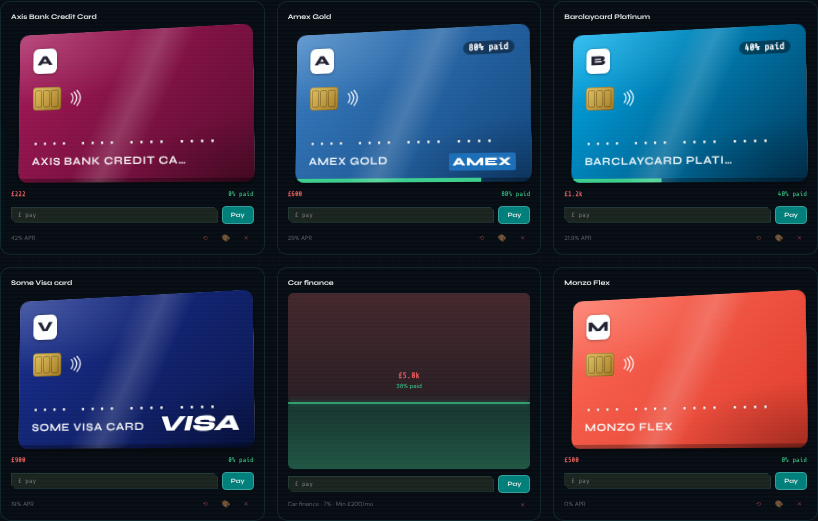
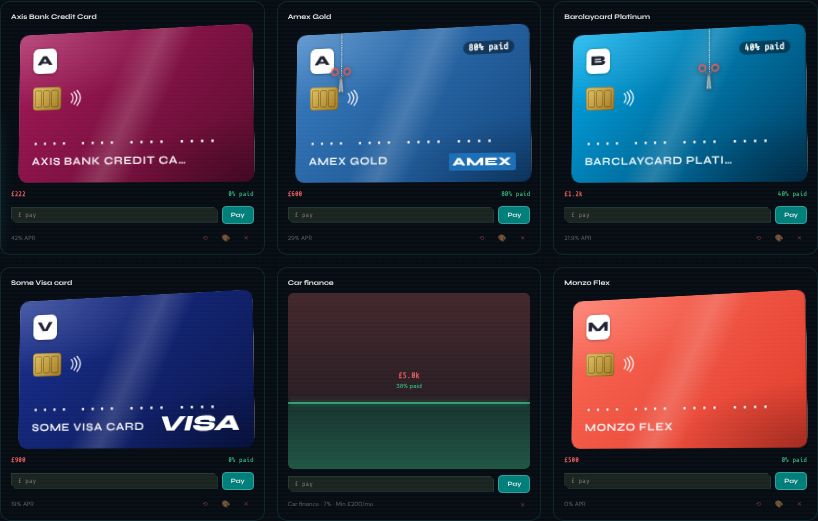
Debt cards: cut along the x axis by % paid (slow scissor animation, paid part greys and parts), payment history with undo
Claude-Session: https://claude.ai/code/session_01BbEpszbFs3K1a6WMvdXZsu

diff --git a/index.html b/index.html
@@ -749,6 +749,22 @@ body::before {
 .cc3-bk-info span{display:block;font-size:3cqw;opacity:.6;text-transform:uppercase;letter-spacing:.1em}
 .cc3-bk-info b{font-size:4.6cqw;font-weight:500}
 .cc3-back .cc3-net{bottom:8%}
+
+/* the card is cut along its x axis as it is paid off */
+.cc3-front{background:none!important;overflow:visible;box-shadow:none;border-radius:0}
+.cc3-lay{position:absolute;inset:0;border-radius:3.7cqw;overflow:hidden;box-shadow:0 1cqw 3cqw rgba(0,0,0,.45)}
+.cc3-piece{filter:grayscale(1) brightness(.6) contrast(.9);transform:translate(.8cqw,.5cqw) rotate(1.1deg);transform-origin:100% 100%;box-shadow:none}
+.cc3-cutline{position:absolute;top:0;bottom:0;width:0;border-left:.5cqw dashed rgba(255,255,255,.85);transform-origin:top;filter:drop-shadow(0 0 .6cqw rgba(0,0,0,.6));pointer-events:none;z-index:3}
+.cc3-scis{position:absolute;top:0;width:9cqw;height:12cqw;margin-left:-4.5cqw;opacity:0;pointer-events:none;z-index:4;filter:drop-shadow(0 .8cqw 1cqw rgba(0,0,0,.5))}
+.cc3-scis svg{width:100%;height:100%;overflow:visible}
+.cc3-bl{transform-origin:0 0}
+.cc3-scis.snip .cc3-bl.a{animation:ccSnipA .5s ease-in-out infinite}
+.cc3-scis.snip .cc3-bl.b{animation:ccSnipB .5s ease-in-out infinite}
+@keyframes ccSnipA{0%,100%{transform:rotate(0)}50%{transform:rotate(-13deg)}}
+@keyframes ccSnipB{0%,100%{transform:rotate(0)}50%{transform:rotate(13deg)}}
+.cc3-bk-cut{position:absolute;top:0;right:0;bottom:0;background:rgba(150,150,150,.55);mix-blend-mode:saturation;border-left:.4cqw dashed rgba(255,255,255,.5);pointer-events:none}
+.cc3-pct{z-index:5}
+.cc3-gloss{z-index:2}
 .cc-tile-actions{display:flex;gap:4px}
 .debt-card-grid.has-cards{grid-template-columns:repeat(auto-fill,minmax(min(100%,230px),1fr))}
 
@@ -8690,6 +8706,8 @@ var _authForgot=false,_needPin=null,_pinMode='local',_pinEnterLen=4,_pinBusy=fal
 var AL_KEY='pos_al1';
 var alState={metals:{gold:0,silver:0,platinum:0,palladium:0},metalPrices:{gold:1950,silver:23.5,platinum:1020,palladium:1100},crypto:[{id:1,sym:'BTC',amount:0,price:42000},{id:2,sym:'ETH',amount:0,price:2200}],cashAccounts:[],otherAssets:[],liabilities:[]};
 var DEBT_KEY='pos_debt1';
+var _ccPct={};   // % shown last time for each card, so a payment cuts from where it was and an undo joins it back up
+var _ccIO=null;
 var CC_BRANDS=[
  {n:'American Express',d:'americanexpress.com',g:['#3b7fc4','#12467f'],fg:'#fff',net:'amex',re:/amex|american\s*express/i},
  {n:'Barclaycard',d:'barclaycard.co.uk',g:['#00aeef','#00395d'],fg:'#fff',re:/barclay/i},
@@ -12243,28 +12261,35 @@ function ccNetMark(n){
   return '';
 }
 function ccEsc(t){return viClean(String(t==null?'':t));}
-function cc3dHTML(d,pctNum){
+function cc3dHTML(d,pctNum,shown){
+  if(shown==null)shown=pctNum;
   var b=ccBrand(d)||CC_GENERIC,c=d.card||{},net=ccNetwork(d,b),fg=b.fg;
-  var front=c.art?'background:#000 url('+c.art+') center/cover':'background:linear-gradient(135deg,'+b.g[0]+','+b.g[1]+')';
+  var bg=c.art?'background:#000 url('+c.art+') center/cover':'background:linear-gradient(135deg,'+b.g[0]+','+b.g[1]+')';
   var domain=b.d,logo=c.logo?'<img alt="" src="'+c.logo+'">':(domain?'<img alt="" loading="lazy" referrerpolicy="no-referrer" src="https://www.google.com/s2/favicons?domain='+domain+'&sz=64" onerror="this.style.display=\'none\'">':'');
   var mono=ccEsc((b.n||d.name||'?').trim().charAt(0).toUpperCase());
   var last4=/^\d{4}$/.test(c.last4||'')?c.last4:'••••';
-  var shown=ccEsc(d.name);
+  var shownName=ccEsc(d.name);
   var bal=gbpFmt(d.balance),apr=(+d.rate||0)+'% APR',minp=gbpFmt(parseFloat(d.minPay)||parseFloat(d.min)||0);
   var art=!!c.art;
-  var f='<div class="cc3-face cc3-front" style="'+front+';color:'+fg+'">'
-    +(art?'':'<div class="cc3-sheen"></div>'+(b.acc?'<div class="cc3-acc" style="background:'+b.acc+'"></div>':''))
+  var inner=(art?'':'<div class="cc3-sheen"></div>'+(b.acc?'<div class="cc3-acc" style="background:'+b.acc+'"></div>':''))
     +(art?'':'<div class="cc3-logo"><span>'+mono+'</span>'+logo+'</div>')
     +(art?'':'<div class="cc3-chip"><i></i><i></i><i></i></div><svg class="cc3-nfc" viewBox="0 0 24 24" fill="none" stroke="'+fg+'" stroke-width="2" stroke-linecap="round"><path d="M8 6c3 3.5 3 8.500 0 12M12 4c4.500 5 4.500 11 0 16M16 2c6 6.500 6 13.500 0 20"/></svg>')
-    +(art?'':'<div class="cc3-num">•••• •••• •••• '+last4+'</div><div class="cc3-name">'+shown+'</div>'+ccNetMark(net))
-    +'<div class="cc3-paid"><span style="width:'+pctNum+'%"></span></div>'
+    +(art?'':'<div class="cc3-num">•••• •••• •••• '+last4+'</div><div class="cc3-name">'+shownName+'</div>'+ccNetMark(net));
+  // the card is cut along its x axis: the paid share on the right is cut off and greyed, the unpaid share on the left stays full colour
+  var P=Math.max(0,Math.min(100,shown));
+  var f='<div class="cc3-face cc3-front">'
+    +'<div class="cc3-lay cc3-base" style="'+bg+';color:'+fg+';clip-path:inset(0 '+P+'% 0 0)">'+inner+'</div>'
+    +'<div class="cc3-lay cc3-piece" style="'+bg+';color:'+fg+';clip-path:inset(0 0 0 '+(100-P)+'%)">'+inner+'</div>'
+    +(P>0&&P<100?'<div class="cc3-cutline cc3-cl-old" style="left:'+(100-P)+'%"></div>':'')
+    +'<div class="cc3-cutline cc3-cl-new" style="left:'+(100-P)+'%;'+(P>0&&P<100?'display:none':'display:none')+'"></div>'
+    +'<div class="cc3-scis" aria-hidden="true"><svg viewBox="-12 -14 24 32"><g class="cc3-bl a"><path d="M0 0 L-2.600 15 L-.8 15.500 L1.200 0Z" fill="#dfe6ea" stroke="#6b7780" stroke-width=".5"/><circle cx="-5.500" cy="-9" r="3.600" fill="none" stroke="#e05c5c" stroke-width="2"/><path d="M-4 -6.500 L0 0" stroke="#6b7780" stroke-width="1.400"/></g><g class="cc3-bl b"><path d="M0 0 L2.600 15 L.8 15.500 L-1.200 0Z" fill="#dfe6ea" stroke="#6b7780" stroke-width=".5"/><circle cx="5.500" cy="-9" r="3.600" fill="none" stroke="#e05c5c" stroke-width="2"/><path d="M4 -6.500 L0 0" stroke="#6b7780" stroke-width="1.400"/></g><circle r="1.200" fill="#6b7780"/></svg></div>'
     +(pctNum>0?'<div class="cc3-pct">'+pctNum+'% paid</div>':'')
     +'<div class="cc3-gloss"></div></div>';
   var back='<div class="cc3-face cc3-back">'
     +'<div class="cc3-stripe"></div><div class="cc3-sig"><span>Authorised signature</span><b>•••</b></div>'
     +'<div class="cc3-bk-info"><div><span>Owed</span><b>'+bal+'</b></div><div><span>Rate</span><b>'+apr+'</b></div><div><span>Min</span><b>'+minp+'/mo</b></div></div>'
-    +ccNetMark(net)+'<div class="cc3-gloss"></div></div>';
-  return '<div class="cc3" data-id="'+d.id+'" role="img" aria-label="'+ccEsc(d.name)+' credit card — drag to rotate, double-click to flip">'
+    +ccNetMark(net)+(pctNum>0?'<div class="cc3-bk-cut" style="width:'+Math.min(100,pctNum)+'%"></div>':'')+'<div class="cc3-gloss"></div></div>';
+  return '<div class="cc3" data-id="'+d.id+'" data-from="'+shown+'" data-to="'+pctNum+'" role="img" aria-label="'+ccEsc(d.name)+' credit card — drag to rotate, double-click to flip">'
     +'<div class="cc3-body" style="--ry:-16deg;--rx:6deg">'+f+back
     +'<div class="cc3-edge cc3-e-t"></div><div class="cc3-edge cc3-e-b"></div><div class="cc3-edge cc3-e-l"></div><div class="cc3-edge cc3-e-r"></div></div></div>';
 }
@@ -12348,6 +12373,45 @@ function ccSaveEdit(){
   ccCloseEdit();saveDebtState();renderDebtTab();showToast('Card design saved ✓');
 }
 
+
+// ── the slow, satisfying cut: scissors travel down the cut line, then the paid part greys and parts from the card ──
+function ccReduced(){try{return window.matchMedia('(prefers-reduced-motion: reduce)').matches;}catch(e){return false;}}
+function ccWatchCuts(root){
+  (root||document).querySelectorAll('.cc3[data-from]').forEach(function(c){
+    var a=+c.getAttribute('data-from'),b=+c.getAttribute('data-to');
+    if(a===b||c._ccBusy){return;}
+    if(ccReduced()||typeof IntersectionObserver==='undefined'){ccCut(c,a,b,true);return;}
+    if(!_ccIO)_ccIO=new IntersectionObserver(function(es){es.forEach(function(e){if(e.isIntersecting){_ccIO.unobserve(e.target);var el=e.target;ccCut(el,+el.getAttribute('data-from'),+el.getAttribute('data-to'),false);}});},{threshold:.6});
+    _ccIO.observe(c);
+  });
+}
+function ccCut(c,a,b,instant){
+  if(c._ccBusy||!c.isConnected)return;
+  var id=c.getAttribute('data-id');_ccPct[id]=b;
+  var base=c.querySelector('.cc3-base'),piece=c.querySelector('.cc3-piece'),olds=c.querySelector('.cc3-cl-old'),nw=c.querySelector('.cc3-cl-new'),sc=c.querySelector('.cc3-scis');
+  if(!base||!piece)return;
+  var fin=function(){base.style.clipPath='inset(0 '+b+'% 0 0)';piece.style.clipPath='inset(0 0 0 '+(100-b)+'%)';
+    if(olds)olds.style.display='none';if(nw){nw.style.display=(b>0&&b<100)?'':'none';nw.style.left=(100-b)+'%';nw.style.opacity='1';}if(sc)sc.style.opacity='0';c.setAttribute('data-from',b);c._ccBusy=false;};
+  if(instant){fin();return;}
+  c._ccBusy=true;
+  var T1=3200,T2=2000,ease='cubic-bezier(.45,.05,.25,1)',phase2=function(){
+    var o={duration:T2,easing:'cubic-bezier(.4,0,.2,1)',fill:'forwards'};
+    base.animate([{clipPath:'inset(0 '+a+'% 0 0)'},{clipPath:'inset(0 '+b+'% 0 0)'}],o);
+    var pa=piece.animate([{clipPath:'inset(0 0 0 '+(100-a)+'%)'},{clipPath:'inset(0 0 0 '+(100-b)+'%)'}],o);
+    if(olds)olds.animate([{opacity:1},{opacity:0}],{duration:T2*.6,fill:'forwards'});
+    if(nw&&b>0&&b<100){nw.style.display='';nw.style.left=(100-b)+'%';nw.animate([{opacity:b>a?1:0},{opacity:1}],{duration:T2*.4,fill:'forwards'});}
+    pa.onfinish=function(){try{base.getAnimations().forEach(function(x){x.cancel();});piece.getAnimations().forEach(function(x){x.cancel();});}catch(e){}fin();};
+  };
+  if(b>a&&b<100&&sc&&nw){   // cutting: scissors snip down the new cut line, drawing it as they go
+    sc.style.left=(100-b)+'%';nw.style.display='';nw.style.left=(100-b)+'%';
+    sc.classList.add('snip');
+    sc.animate([{opacity:0,top:'-14%'},{opacity:1,top:'-10%',offset:.08},{opacity:1,top:'98%',offset:.94},{opacity:0,top:'104%'}],{duration:T1,easing:'linear',fill:'forwards'});
+    var cl=nw.animate([{transform:'scaleY(0)',opacity:1},{transform:'scaleY(1)',opacity:1}],{duration:T1*.86,delay:T1*.08,easing:'linear',fill:'both'});
+    setTimeout(function(){sc.classList.remove('snip');phase2();},T1);
+  } else if(b>=100&&b>a&&sc&&nw){   // fully paid: cut straight across the left edge
+    phase2();
+  } else phase2();
+}
 function makePayment(id){
   var d=debtState.debts.find(function(x){return x.id===id;});
   if(!d)return;
@@ -12355,10 +12419,21 @@ function makePayment(id){
   var v=inp?parseFloat(inp.value)||0:0;
   if(v<=0){showToast('Enter a payment amount');return;}
   if(!d.original||d.original<=0)d.original=d.balance+v;
+  var paid=Math.min(v,d.balance);   // an overpayment can only clear what is owed
   d.balance=Math.max(0,d.balance-v);
+  d.payments=(d.payments||[]).concat([{id:Date.now(),amt:paid,date:new Date().toISOString()}]).slice(-50);
   if(inp)inp.value='';
   saveDebtState();renderDebtTab();updateKPIs();checkAchievements();
-  showToast('£'+v.toLocaleString('en-GB')+' payment recorded ✓');
+  showToast('£'+paid.toLocaleString('en-GB')+' payment recorded ✓ — you can undo it on the card');
+}
+function undoPayment(id){
+  var d=debtState.debts.find(function(x){return x.id===id;});
+  if(!d||!d.payments||!d.payments.length)return;
+  var p=d.payments.pop();
+  d.balance=Math.round((d.balance+p.amt)*100)/100;
+  if(!d.payments.length)delete d.payments;
+  saveDebtState();renderDebtTab();updateKPIs();
+  showToast('£'+(+p.amt).toLocaleString('en-GB')+' payment undone');
 }
 function renderDebtTab(){
   var sorted=[].concat(debtState.debts).sort(function(a,b){
@@ -12395,11 +12470,12 @@ function renderDebtTab(){
         // real-proportion 3D card (drag to rotate, double-tap to flip); progress shown on the card's bottom edge
         return '<div style="background:var(--c2);border:1px solid var(--bd);border-radius:10px;padding:10px;display:flex;flex-direction:column;gap:8px">'
           +'<div style="font-size:.55rem;font-weight:700;color:var(--t1);font-family:\'Syne\',sans-serif;white-space:nowrap;overflow:hidden;text-overflow:ellipsis">'+ccEsc(d.name)+'</div>'
-          +cc3dHTML(d,pctNum)
+          +cc3dHTML(d,pctNum,ccReduced()?pctNum:(_ccPct[d.id]!=null?_ccPct[d.id]:0))
           +'<div style="font-size:.52rem;color:var(--re);font-family:\'Share Tech Mono\',monospace;font-weight:700;display:flex;justify-content:space-between"><span>'+gbpFmt(d.balance)+'</span><span style="color:var(--gr);font-weight:400">'+pctNum+'% paid</span></div>'
           +'<div style="display:flex;align-items:center;gap:4px">'
           +'<input type="number" id="debt-pay-inp-'+d.id+'" class="al-inp" placeholder="£ pay" style="flex:1;font-size:.52rem;padding:3px 6px;min-width:0">'
           +'<button class="btn-add-data" style="padding:4px 8px;font-size:.5rem;white-space:nowrap" onclick="makePayment('+d.id+')">Pay</button>'
+          +(d.payments&&d.payments.length?'<button class="btn-add-data" style="padding:4px 8px;font-size:.5rem;white-space:nowrap;background:transparent;border-color:var(--t3);color:var(--t2)" title="Undo your last payment of £'+d.payments[d.payments.length-1].amt+'" onclick="undoPayment('+d.id+')">↩ Undo £'+Math.round(d.payments[d.payments.length-1].amt*100)/100+'</button>':'')
           +'</div>'
           +'<div style="display:flex;justify-content:space-between;align-items:center">'
           +'<span style="font-size:.46rem;color:var(--t3)">'+d.rate+'% APR</span>'
@@ -12422,6 +12498,7 @@ function renderDebtTab(){
           +'<div style="display:flex;align-items:center;gap:4px">'
           +'<input type="number" id="debt-pay-inp-'+d.id+'" class="al-inp" placeholder="£ pay" style="flex:1;font-size:.52rem;padding:3px 6px;min-width:0">'
           +'<button class="btn-add-data" style="padding:4px 8px;font-size:.5rem;white-space:nowrap" onclick="makePayment('+d.id+')">Pay</button>'
+          +(d.payments&&d.payments.length?'<button class="btn-add-data" style="padding:4px 8px;font-size:.5rem;white-space:nowrap;background:transparent;border-color:var(--t3);color:var(--t2)" title="Undo your last payment of £'+d.payments[d.payments.length-1].amt+'" onclick="undoPayment('+d.id+')">↩ Undo £'+Math.round(d.payments[d.payments.length-1].amt*100)/100+'</button>':'')
           +'</div>'
           +'<div style="display:flex;justify-content:space-between;align-items:center">'
           +'<span style="font-size:.46rem;color:var(--t3)">'+(DEBT_TYPE_LABELS[d.type]||'Debt')+' · '+d.rate+'% · Min '+gbpFmt(parseFloat(d.minPay)||parseFloat(d.min)||0)+'/mo</span>'
@@ -12431,7 +12508,7 @@ function renderDebtTab(){
       }
     }).join('')
     +'</div>';
-  setTimeout(function(){drawDebtHistogram();drawDebtDonut();updateDebtInterestPanel();},50);
+  setTimeout(function(){drawDebtHistogram();drawDebtDonut();updateDebtInterestPanel();ccWatchCuts(dl);},50);
 }
 
 var _debtMethod = 'avalanche';

diff --git a/tests/test_cut.js b/tests/test_cut.js
@@ -1,0 +1,34 @@
+const { chromium } = require('playwright');
+let fails=0; const ok=(c,m)=>{ if(!c){fails++;console.log('FAIL:',m);} else console.log('ok  :',m); };
+(async()=>{
+  const b=await chromium.launch(); const page=await (await b.newContext({viewport:{width:900,height:1000}})).newPage(); const errs=[]; page.on('pageerror',e=>{errs.push(e.message);console.log('PAGEERR',e.message.slice(0,150));});
+  await page.addInitScript(()=>{if(localStorage.getItem('pos_debt1'))return;localStorage.setItem('vi_declined_demo','true');localStorage.setItem('vi_session',JSON.stringify({email:'t@t.com',expiry:Date.now()+1e10}));localStorage.setItem('vi_user',JSON.stringify({name:'T',email:'t@t.com'}));
+    localStorage.setItem('pos_debt1',JSON.stringify({debts:[{id:1,name:'Barclaycard Platinum',original:2000,balance:1100,rate:21.9,min:40,type:'credit'},{id:2,name:'Monzo Flex',original:500,balance:500,rate:0,min:20,type:'credit'}]}));});
+  await page.goto('file:///home/user/Vault-It/index.html'); await page.waitForTimeout(1500);
+  await page.addStyleTag({content:'#welcome-overlay,#login-overlay{display:none!important}'});
+  await page.evaluate(()=>showTab('debt')); await page.waitForTimeout(700);
+  const sel='.cc3[data-id="1"]';
+  const clip=()=>page.evaluate(s=>({base:document.querySelector(s+' .cc3-base').getBoundingClientRect().width,cs:getComputedStyle(document.querySelector(s+' .cc3-base')).clipPath,pc:getComputedStyle(document.querySelector(s+' .cc3-piece')).clipPath,scis:getComputedStyle(document.querySelector(s+' .cc3-scis')).opacity,top:document.querySelector(s+' .cc3-scis').getBoundingClientRect().top}),sel);
+  // 45% paid → starts uncut, scissors travel slowly, then grey piece
+  const c0=await clip(); console.log('t0',JSON.stringify(c0));
+  await page.waitForTimeout(1500); await page.locator(sel).screenshot({path:'shots/cut_mid1.png'}); const c1=await clip(); console.log('t1.5s',JSON.stringify(c1));
+  await page.waitForTimeout(2200); const c2=await clip(); await page.locator(sel).screenshot({path:'shots/cut_mid2.png'}); console.log('t3.7s',JSON.stringify(c2));
+  ok(c1.scis>0.5&&c2.top>c1.top,'scissors are visible and travelling down the cut line (slowly)');
+  await page.waitForTimeout(3500);
+  const c3=await clip(); await page.locator(sel).screenshot({path:'shots/cut_done.png'}); console.log('done',JSON.stringify(c3));
+  ok(/inset\(0px 45%|inset\(0 45%|45%/.test(c3.cs),'55% left in colour, 45% cut: '+c3.cs);
+  const ct=await page.evaluate(()=>getComputedStyle(document.querySelector('.cc3[data-id="1"] .cc3-piece')).filter);
+  ok(/grayscale/.test(ct),'cut-off part is greyed');
+  // pay £200 → 55% paid; undo → back to 45
+  await page.fill('#debt-pay-inp-1','200'); await page.evaluate(()=>makePayment(1)); await page.waitForTimeout(500);
+  let d=await page.evaluate(()=>debtState.debts.find(x=>x.id===1)); ok(d.balance===900&&d.payments.length===1,'payment recorded (balance £900)');
+  ok(await page.locator('#debt-list-el button:has-text("Undo")').count()>=1,'undo button shown');
+  await page.waitForTimeout(6500);
+  ok(/55%/.test((await clip()).cs),'cut extended to 55% after the payment');
+  await page.evaluate(()=>undoPayment(1)); await page.waitForTimeout(3000);
+  d=await page.evaluate(()=>debtState.debts.find(x=>x.id===1)); ok(d.balance===1100&&!d.payments,'undo restores £1,100 and removes the record');
+  ok(/45%/.test((await clip()).cs),'cut shrinks back to 45%');
+  ok(await page.locator('#debt-list-el button:has-text("Undo")').count()===0,'no undo button when nothing to undo');
+  ok(errs.length===0,'no page errors');
+  await b.close(); console.log(fails?'FAILURES '+fails:'ALL PASSED');
+})();

diff --git a/tests/test_cc3d.js b/tests/test_cc3d.js
@@ -42,7 +42,7 @@ const fs=require('fs');
   await page.evaluate(()=>ccSaveEdit()); await page.waitForTimeout(400);
   const saved=await page.evaluate(()=>JSON.parse(localStorage.getItem('pos_debt1')).debts.find(x=>x.id===5).card);
   ok(saved&&saved.issuer==='Halifax'&&saved.last4==='4821'&&saved.art,'card design saved with the debt');
-  ok(await page.locator('.cc3[data-id="5"] .cc3-front[style*="url("]').count()===1,'front uses the photo');
+  ok(await page.locator('.cc3[data-id="5"] .cc3-base[style*="url("]').count()===1,'front uses the photo');
   ok(errs.length===0,'no page errors '+errs.join('|'));
   await b.close(); console.log(fails?'FAILURES '+fails:'ALL PASSED');
 })();
